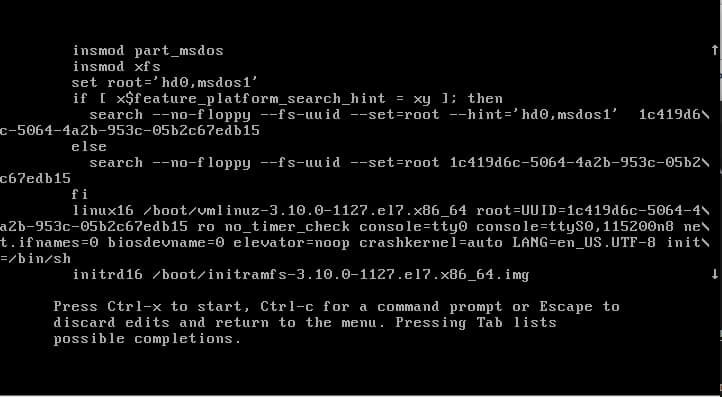
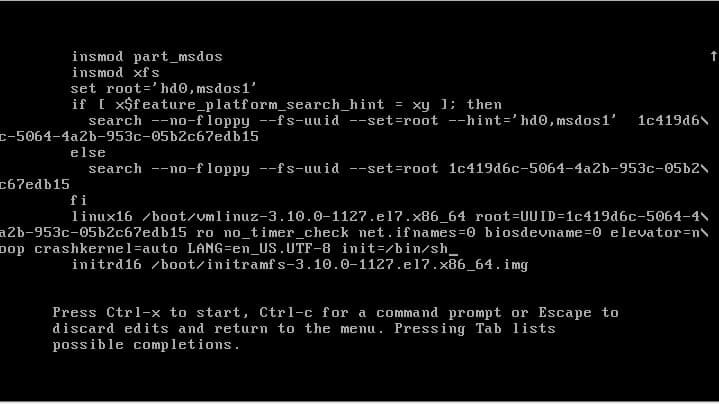
5

diff --git a/README.md b/README.md
@@ -15,14 +15,26 @@
 
 - Способ 1. init=/bin/sh
 
+Из GUI Virtualbox перезагружаю VM, при появлении меню выбора ядра нажимаю e(edit) и попадаю в окно изменения параметров загрузки.
+
+- В конце строки, начинающейся с linux16, добавляю init=/bin/sh и удаляю строки console=tty0 console=ttyS0 во избежание Kernel Panic
+- нажимаю сtrl-x для загрузки в системы
+
 ![](pics/picture1.jpg)
 
+Система загрузилась, но рут смонтировался в RO. Исправляю
 
-Настроен дашборд с 4-мя графиками в системе Zabbix 5.0 LTS
-- память
-- процессор
-- диск
-- сеть
+![](pics/picture2.jpg)
 
-Дашборд содержит имя студента
+- Способ 2. rd.break
 
+Из GUI Virtualbox перезагружаю VM, при появлении меню выбора ядра нажимаю e(edit) и попадаю в окно изменения параметров загрузки.
+
+- В конце строки, начинающейся с linux16, добавляю rd.break
+- нажимаю сtrl-x для загрузки в системы
+
+![](pics/picture3.jpg)
+
+Система загружается в Emergency mode. Монтирую ФС в RW и меняю пароль root
+
+![](pics/picture4.jpg)
